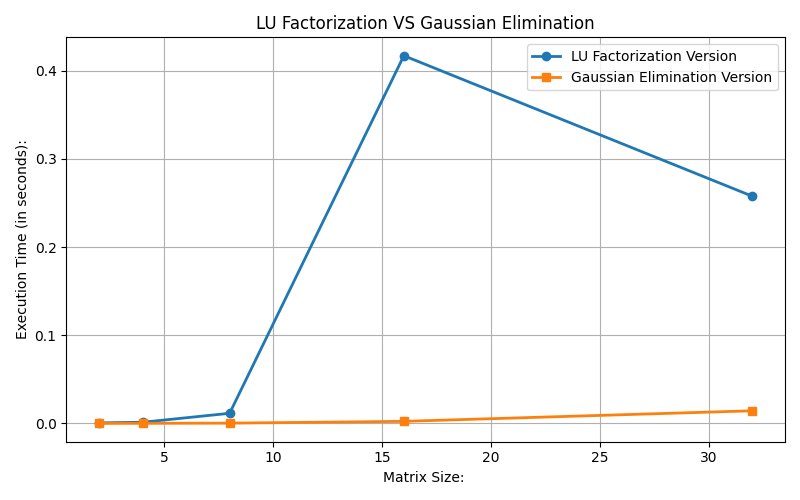
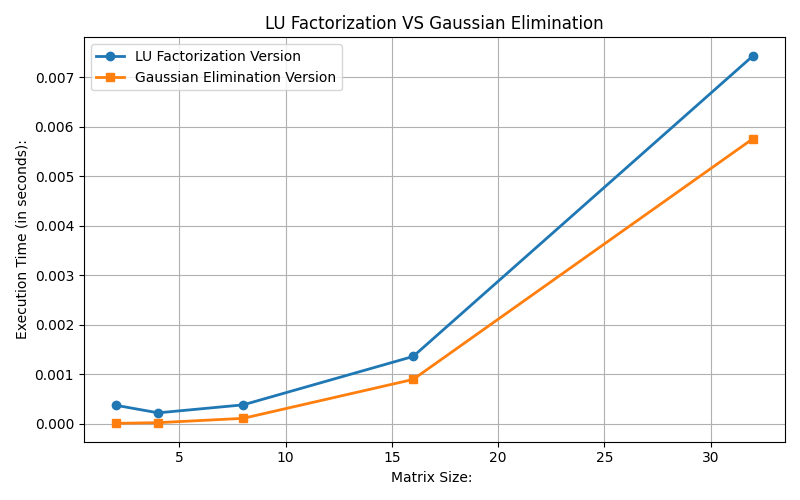
final changes to work

diff --git a/lu_factorization.py b/lu_factorization.py
@@ -33,44 +33,32 @@ def generate_safe_system(n):
 
 def lu_factorisation(A):
 
-    
+    rows = A.shape[0]
+
     n, m = A.shape
     if n != m:
         raise ValueError(f"Matrix A is not square {A.shape=}")
 
     # construct arrays of zeros
     L, U = np.zeros_like(A), np.zeros_like(A)
+
     #filling all diagonal values to 1 in L matrix
     np.fill_diagonal(L, 1)
 
-    #creating an augmented matrix
-    #solving for upper trianglular
-
-    rows = A.shape[0]
-    i = 0
-    secondA = A.copy()
-    while i < rows: # iterating through columns
-        if secondA[i][i] == 0.0: #checking if the diagonal entry is zero
-           print ("Diagonal Entry is Zero")
-           return
-     
-        for j in range (i+1, rows): #iterate rows
-
-            multiplier = secondA[j][i] / secondA[i][i]
-
-
-            secondA[j] = secondA[j] - (multiplier * secondA[i]) #this makes a particular val under the diagonal zero
-            print("This is iteration ", j) #keeping track of iter
-            print(secondA)
-
-            #this section I am making L , putting the multipler values
-             
-            L[j][i] = multiplier
+    for j in range(rows): #for the coloumns iterating through
+        for i in range(j+1): #iterating for the U
+      # Compute factors u_{ij}
             
-        i += 1
+            mysumU = sum(L[i,k] * U[k,j] for k in range(i)) #calculating the dot product of the current elemets of L and U so we know what to subtract
+            U[i,j] = A[i,j] - mysumU #subtracting the calculated sum from the matrix A to get that element of U 
+            
 
-        U = secondA.copy()
-    
+        for i in range(j+1, n): #iterating for the L
+      # Compute factors l_{ij}
+            
+            mysumL = sum(L[i,k] * U[k,j] for k in range(i)) #calculating dot product again for getting elements of L
+            L[i,j] = (A[i,j] - mysumL)/U[j,j] #this is us placing the multiplier in the current positin for L
+
     return(L, U)
 
 
@@ -192,12 +180,12 @@ def lu_factorization_graph(A, b):
 
     return x
 
-#Atry, btry, x = generate_safe_system(3)
+Atry, btry, x = generate_safe_system(3)
 
 #graceA = np.array([[4,2,0],[2,3,1],[0,1,2.5]])
 '''
 print(Atry)
-L, U = lu_factorisation(Atry)
+
 
 print("This is my Matrix U (Upper triangular)")
 print(U)
@@ -210,14 +198,16 @@ if (np.allclose(L @ U, Atry)):
     print(L ,"x", U ,"=", L@U)
     print("This is my origianl Matrix: ", Atry)
 
+
+
+'''
+L, U = lu_factorisation(Atry)
 result = determinant(Atry)
 print(result)
 
+
+
 '''
-
-
-
-
 
 sizes = [2**j for j in range(1, 6)]
 times_lu = []
@@ -254,5 +244,5 @@ plt.show()
 
 plt.savefig("luVSguassgraph.png")
 
-
+'''
 

diff --git a/lu_factorisation.py b/lu_factorisation.py
@@ -1,41 +1,27 @@
 def lu_factorisation(A):
 
-    
     n, m = A.shape
     if n != m:
         raise ValueError(f"Matrix A is not square {A.shape=}")
+    
+    rows = A.shape[0] #number of rows
 
     # construct arrays of zeros
     L, U = np.zeros_like(A), np.zeros_like(A)
+
     #filling all diagonal values to 1 in L matrix
     np.fill_diagonal(L, 1)
 
-    #creating an augmented matrix
-    #solving for upper trianglular
-
-    rows = A.shape[0]
-    i = 0
-    secondA = A.copy()
-    while i < rows: # iterating through columns
-        if secondA[i][i] == 0.0: #checking if the diagonal entry is zero
-           print ("Diagonal Entry is Zero")
-           return
-     
-        for j in range (i+1, rows): #iterate rows
-
-            multiplier = secondA[j][i] / secondA[i][i]
-
-
-            secondA[j] = secondA[j] - (multiplier * secondA[i]) #this makes a particular val under the diagonal zero
-            print("This is iteration ", j) #keeping track of iter
-            print(secondA)
-
-            #this section I am making L , putting the multipler values
-             
-            L[j][i] = multiplier
+    for j in range(rows): #for the coloumns iterating through
+        for i in range(j+1): #iterating for the U
+        # Compute factors u_{ij}
+            mysumU = sum(L[i,k] * U[k,j] for k in range(i)) #calculating the dot product of the current elemets of L and U so we know what to subtract
+            U[i,j] = A[i,j] - mysumU #subtracting the calculated sum from the matrix A to get that element of U 
             
-        i += 1
 
-        U = secondA.copy()
-    
+        for i in range(j+1, n): #iterating for the L
+        # Compute factors l_{ij}
+            mysumL = sum(L[i,k] * U[k,j] for k in range(i)) #calculating dot product again for getting elements of L
+            L[i,j] = (A[i,j] - mysumL)/U[j,j] #this is us placing the multiplier in the current positin for L
+
     return(L, U)
